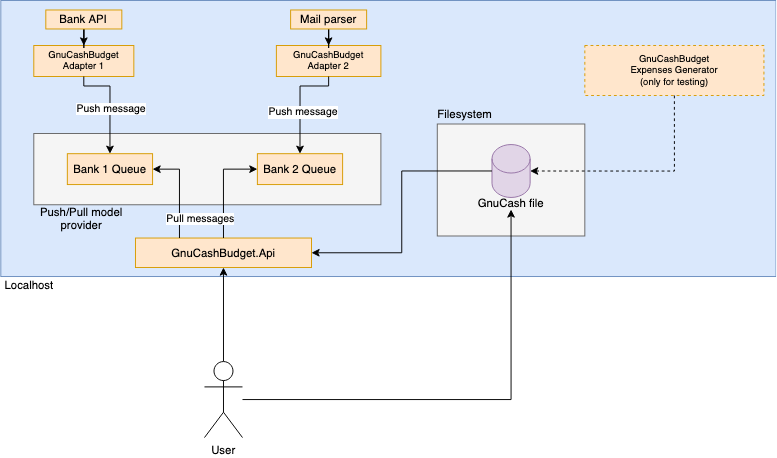
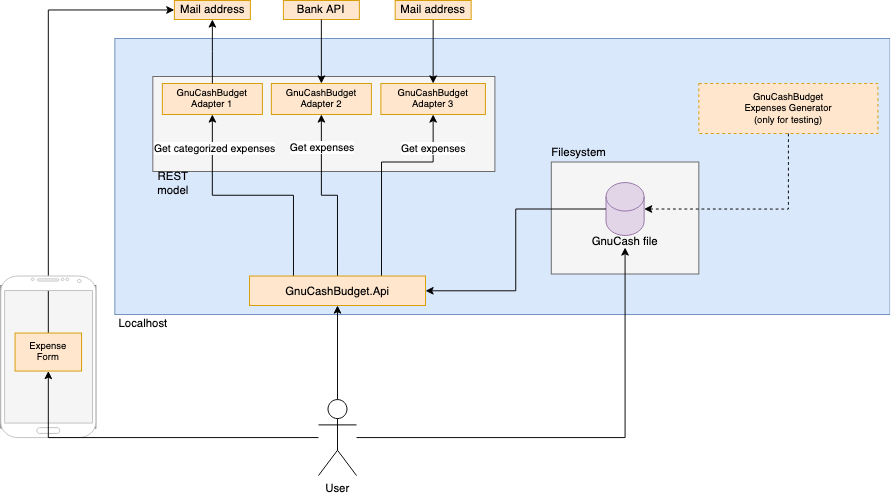
docs: Specs changed to correspond with new design

diff --git a/docs/CONNECTOR-API.md b/docs/CONNECTOR-API.md
@@ -10,6 +10,7 @@
       * [Benefits](#benefits-1)
       * [Cons](#cons-1)
     * [Summary](#summary)
+      * [How to overcome a problem with accessing the app from a mobile device](#how-to-overcome-a-problem-with-accessing-the-app-from-a-mobile-device)
   * [REST vs push/pull model](#rest-vs-pushpull-model)
     * [1. REST api](#1-rest-api)
       * [This approach would mean](#this-approach-would-mean-2)
@@ -25,9 +26,14 @@
   * [Adapters](#adapters)
   * [Specification](#specification)
     * [Authentication and Authorization:](#authentication-and-authorization)
-    * [Messages and their Descriptions:](#messages-and-their-descriptions)
-      * [Expense message](#expense-message)
-        * [Message content](#message-content)
+    * [Data Format:](#data-format)
+    * [Error Handling:](#error-handling)
+    * [Endpoints and their Descriptions:](#endpoints-and-their-descriptions)
+      * [/expenses/history](#expenseshistory)
+        * [Request Parameters:](#request-parameters)
+        * [API Responses:](#api-responses)
+          * [Successful response (Status code 200):](#successful-response-status-code-200)
+        * [Error responses (Status code 4xx and 5xx):](#error-responses-status-code-4xx-and-5xx)
     * [Inputs](#inputs)
     * [Outputs](#outputs)
 <!-- TOC -->
@@ -52,9 +58,10 @@ We have two sensible ways how to look at our system - it will run on [Cloud](#1-
 #### This approach would mean
 
 * Having User Management (log in, etc.)
+  * Or using Google OAuth Login **only** and not have own user management
 * Connecting Google Drive in which the GNUCash.sqlite file is saved
   * This would further mean have some checks in place to know if the file was edited (user can download a file, do some changes to Assets and upload it back)
-  * Implementing Google Auth
+  * Implementing Google OAuth
 * When an adapter would need permissions to read mail (bank doesn't have an API &rarr; we parse it from the mail) we need to ask user for that and store it somewhere
 
 #### Benefits
@@ -97,6 +104,21 @@ access the app from mobiles. This will be painful if let's say user is in shop, 
 In localhost approach user has his file on disk whole time (with Google Drive plugin it automatically synchronizes to users cloud)
 and after initial set up its easy for him to use the app
 
+#### How to overcome a problem with accessing the app from a mobile device
+
+We can create an adapter just for categorizing expenses from mobile device. This adapter would be connected to a mail address.
+When user starts the app on localhost this adapter will read the mails and present them to a user as expenses. These expenses
+will be already categorized by the user (all needed data are there) and he will only "click" OK button and expenses will
+be written to the database as categorized
+
+We would need to provide some webpage with a form which a user would fill. Then it would send a mail to specific email
+address which is connected to the adapter. It doesn't matter if we create our own webpage and deploy it, or we use 
+Google Forms for instance
+
+Basically approach would be: have Google Form (webpage) &rarr; user fills a form as an expense &rarr; mail is sent to 
+an email address &rarr; user starts up the app on localhost &rarr; adapter reads mails as expenses and presents them to
+the user &rarr; user clicks OK and expenses are categorized
+
 ## REST vs push/pull model
 
 We also need to look at a way how will adapters communicate with main app
@@ -109,31 +131,26 @@ We have two sensible ways how to do it - via [REST](#1-rest-api) or [PUSH/PULL m
 
 #### This approach would mean
 
-* More development on the main app part
-  * All transactions are acquired from adapter service &rarr; main app adds them to some internal "queue" (database table probably) &rarr; show them to the user
-  * It needs to write to the database which expenses are categorized
-* Implementing caching (to database) in adapter services
-  * To not parse all mails with every call
-  * To not call Bank API to get all expenses every time
+* Main app development logic
+  * All transactions which are acquired from adapter service will be put in some database table with un-categorized expense state
+  and when user wants to see un-categorized expenses just show him expenses with corresponding state
+  * When user categorizes an expense it is moved from un-categorized state to categorized one
+  * Main application only gets new data (from adapters) based on continuation-token logic (older and un-categorized data 
+  are already in the database table from earlier)
+* Implementing continuation-token in adapter services
+  * When there isn't a token &rarr; adapter sends back all data
+  * When there is a token &rarr; adapter sends back only part of data based on the input in continuation-token
 
 #### Benefits
 
 * Simpler initial setup of adapter services
-  * Read all the data &rarr; cache them &rarr; send them to the caller
-* Less complexity without push/pull provider
+  * Read the data (either all or based on continuation token) &rarr; send them to the caller
+* Much less complexity without push/pull provider
 
 #### Cons
 
-* Not so simple development of the main app
-  * Getting all data from adapter services and needing to do the rest of the work with it
-  * Remembering which expenses are categorized already
-    * Having some internal "queue" (database table probably) of non-categorized expenses (to show to the user)
-    * With every call application would need to compare data in non-categorized table and incoming data
-* Bigger resource utilization
-  * Data are send multiple times from adapter to main app
-* Using database for caching in adapter services
-  * To not call Bank API to get all expenses every time but only new ones
-  * To not parse all mails but only new ones
+* Implementing continuation-tokens and special table to remember all expenses (and not having it in messaging queue)
+  * **This is also a good thing because we will only have 1 database for the whole app**
 
 ### 2. Push/Pull model
 
@@ -148,32 +165,36 @@ We have two sensible ways how to do it - via [REST](#1-rest-api) or [PUSH/PULL m
 * Having Queue already in place for later usage (showing the user the un-categorized expenses)
 * Implementing simple database to remember last datetime of expense data sent to queue
   * Only expenses which weren't put into the queue can be put there
+* We would need to trigger somehow the adapter to read and send all new expenses to the messaging provider
 
 #### Benefits
 
 * Simple development on the main app part
   * When adapter does its work the main app only reads a message from queue and shows it to the user
   * If user does not categorize it the message will remain in the queue until he does (via manual acknowledgements)
-* Using only simple database table in adapter services to remember datetime of last expense put into the queue
-* Built-in Eventual consistency - if something happens with adapters user can still categorize those message which were delivered previously
  
 #### Cons
 
 * Push/Pull provider needs to support DurableQueues and Persistent messages (along with manual acknowledgements)
   * Probably save data to the file-storage &rarr; setting docker correctly to allow it
+* Using (simple) database table in adapter services to remember datetime of last expense put into the queue
+* Complexity
+  * There would be many places in which we need to save current state (database in adapter, messaging queue, databases
+  in the main app)
+  * Potentially we could lose data if there is some problem
 
 ### Summary
 
-After careful consideration I am recommending to use Push/Pull model because of the overall simplicity for developers.
-Adapter services will be developed with same level of difficulty for REST or push/pull model (both approaches need to have database).
-Main application will be easier to develop with push/pull model because most of the work will do model provider.
-If we use a model provider with manual acknowledgements we can read all messages, show them to the user and acknowledge only
-those which user categorizes. Those who are not categorized will remain in queue for the user to process.
-Last but not least working with messaging can cause some trouble but in this hobby project I would like to try it out
+After careful consideration I am recommending to use REST model because of the overall simplicity for developers.
+Adapter services will be developed easier for REST model (no database in rest model, only continuation-token).
+Main application will be easier to develop with REST model because we save the data from adapters in database table,
+save continuation-token and next time we are calling an adapter we use that token, and we get only new data.
+Then the main app shows a user only expenses with un-categorized state from that table.
+
 
 ## Summary of design
 
-Application will be used only on **localhost** ([Explanation here](#summary)) and be using **Push/Pull model** ([Explanation for that here](#summary-1))
+Application will be used only on **localhost** ([Explanation here](#summary)) and be using **REST** ([Explanation for that here](#summary-1))
 
 ![Design schema](connector-api_design-schema.png)
 
@@ -187,33 +208,63 @@ For those who don't we will turn on sending mails to our inbox and then parse al
 
 ## Adapters
 
-* Adapters are going to work via Push/Pull model
+* Adapters are going to work via REST API
 * Every bank adapter will have standalone service
-* Every adapter would need to regularly check if there is a new data in Bank API or new mails to be parsed
-
-![PUSHPULL schema](connector-api_pushpull-schema.png)
 
 ## Specification
 
-This document outlines the interface and functionalities of the Bank Connector API, 
-tailored specifically for retrieving expense data within our custom banking application. 
+This document outlines the interface and functionalities of the Bank Connector API,
+tailored specifically for retrieving expense data within our custom banking application.
 It enables seamless integration with the bank's existing API for fetching expense-related information.
 
 ### Authentication and Authorization:
 
 We won't implement authentication and authorization because we plan to run the services only locally via Docker
 
-### Messages and their Descriptions:
+### Data Format:
 
-#### Expense message
+The bank's API returns all data in `JSON` format,
+containing details such as `amount`, `currency`, `category`, `description`, `timestamp` and `adapter_name`.
 
-* Name: `ExpenseMessage`
-* Description: This message contains the data of expense transaction for the user's account
+### Error Handling:
 
-##### Message content
+Developers should handle potential errors gracefully by checking for error responses and displaying relevant messages to users.
+Possible error codes include `4xx` client errors (e.g., invalid parameters) and `5xx` server errors.
 
-* Each expense message object includes fields like `amount`, `currency`, `timestamp` and `adapter_name`.
-* Other fields are nullable
+### Endpoints and their Descriptions:
+
+#### /expenses/history
+
+* Endpoint: `/expenses/history`
+* Method: `GET`
+* Description: This endpoint retrieves the history of expense transactions for the user's account.
+
+##### Request Parameters:
+
+Optional parameters:
+
+* `continuation_token`: Specifies the continuation-token which could be parsed to specific value by which adapter knows
+  from which point in time it needs to send data.
+  * Data Type: `String (Base64)`
+  * Example: `"continuation_token": "base64value"`
+  * Description: This parameter allows filtering expense transactions based on their transaction dates.
+  * If provided, only transactions that occurred on or after the specified continuation token value will be included in the response. 
+  * If omitted, transactions from any date will be included in the response.
+* `currency`: Specifies the currency in which the expense transactions should be retrieved.
+  * Data Type: `String`
+  * Example: `"currency": "USD"`
+  * Description: This parameter allows filtering expense transactions based on the currency used for the transactions. 
+  * If provided, only transactions in the specified currency will be included in the response.
+  * If omitted, expense transactions in all currencies will be included in the response.
+
+##### API Responses:
+
+###### Successful response (Status code 2xx):
+
+* The response contains
+  * a continuation-token string in Base64
+  * an array of expense objects, each representing a single transaction.
+    * Each expense object includes fields like `amount`, `currency`, `timestamp` and `adapter_name`.
 
 | Name             | Nullable | Data Type                | Description                                                                                                |
 |------------------|----------|--------------------------|------------------------------------------------------------------------------------------------------------|
@@ -229,7 +280,9 @@ We won't implement authentication and authorization because we plan to run the s
 
 ```json
 {
-  "ExpenseMessage1": {
+  "continuation_token": "base64value",
+  "expenses": [
+    {
       "amount": 50.00,
       "currency": "USD",
       "category": "Groceries",
@@ -238,9 +291,9 @@ We won't implement authentication and authorization because we plan to run the s
       "merchant": "ABC Supermarket",
       "payment_method": "Debit Card",
       "location": "123 Main St, City, Country",
-      "adapter_name": "Bank of America adapter"
+      "adapter_name": "Adapter 1"
     },
-  "ExpenseMessage2": {
+    {
       "amount": 20.00,
       "currency": "USD",
       "category": null,
@@ -249,8 +302,23 @@ We won't implement authentication and authorization because we plan to run the s
       "merchant": "XYZ Restaurant",
       "payment_method": "Credit Card",
       "location": "456 Elm St, City, Country",
-      "adapter_name": "Bank of America adapter"
+      "adapter_name": "Adapter 1"
     }
+  ]
+}
+
+```
+
+##### Error responses (Status code 4xx and 5xx):
+
+* Error messages and corresponding status codes will be returned in case of invalid requests or server errors.
+
+```json
+{
+  "error": {
+    "code": 400,
+    "message": "Invalid date format provided"
+  }
 }
 
 ```
@@ -259,27 +327,20 @@ We won't implement authentication and authorization because we plan to run the s
 
 Inputs for each adapter are data got from the bank (either via Bank API or mail parsing/etc.)
 
-To not send the same message twice adapters needs to implement some way how to remember which messages were sent.
-Our recommendation is to have simple database table in which you will write last `DateTime` of the expense sent to the queue.
+To get only new data adapters need to implement continuation-token. They will get it in GET request and use it
+to respond only with new data. Continuation-token could be as simple as `DateTime` value in Base64 format
 
-This way if the expense data are parsed and the date and time is AFTER your saved datetime you know it is a new expense,
-and you add it to the queue (and of course update the database value)
+For Bank API you can save the value and send REST request to your Bank API to only get expenses newer than <datetime value>
 
-For Bank API you can save the value and send REST request to your Bank API to only get expenses newer than <datetime saved>
-
-For Mail parser you can parse mails from the TOP and when you find mail older than <datetime saved> you stop parsing. Or you
-could just delete older mails and have only new ones in your inbox (empty inbox means every expense was added to the queue)
+For Mail parser you can parse mails from the TOP and when you find mail older than <datetime value> you stop parsing.
 
 ### Outputs
 
-Outputs of each adapter are messages sent into the `Queue`.
+Outputs of each adapter are data send as a Response to GET request
 
-Queue has to be `Durable` and messages needs to be `Persistent`.
-Push/Pull model provider needs to be set to save data on disk. We will be using Docker to run the whole app which means
-when user quits Docker we **need to keep all messages**
+Either adapter sends all data back (no continuation-token in a request) or sends only new data back (continuation-token
+was present in a request)
 
-The main application will use `Manual Acknowledgement` for the messages in queue and tag message as delivered only after
-user categorizes the expense. If he does not the message stays in queue and user will see it again when he goes to the 
-expenses-to-be-categorized page
+In every response there needs to be a continuation-token generated by adapter so the main app can save it and use it later
 
 ![Flow schema](connector-api_flow.png)
